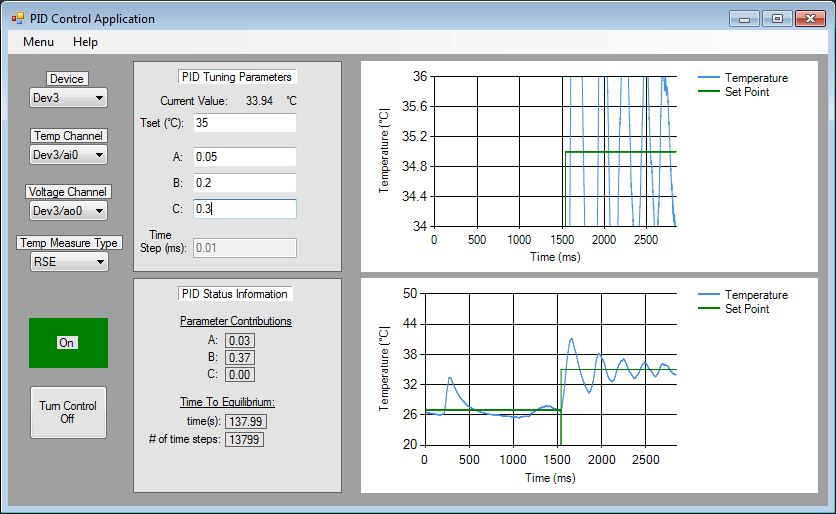
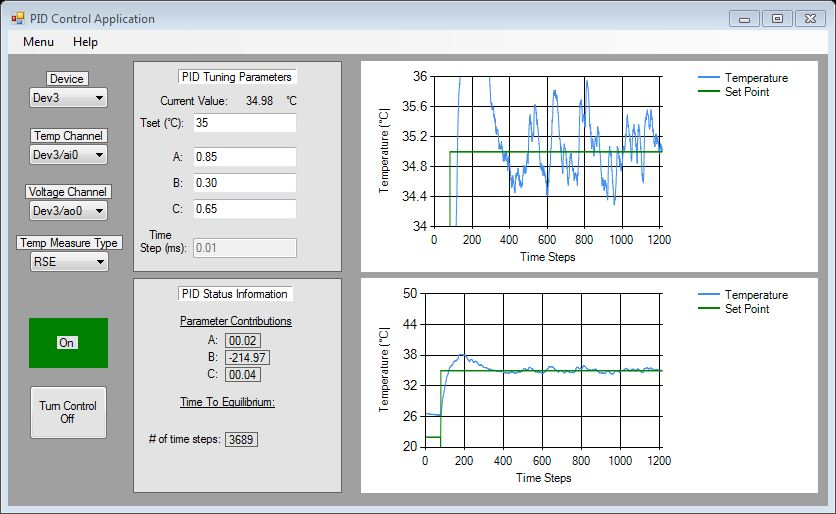
PID abstract class now resets errors when setpoint is changed. New Readme picture of front panel

diff --git a/PID_Application/MainForm.cs b/PID_Application/MainForm.cs
@@ -149,6 +149,8 @@ namespace PID_Application
             TempPlotExpanded.ChartAreas[0].AxisX.Title = "Time Steps";
             TempPlotExpanded.ChartAreas[0].AxisY.Title = "Temperature (°C)";
 
+            TimeStepsLbl.Text = "0";
+
             Cursor.Current = Cursors.Default;
         }
       
@@ -358,6 +360,9 @@ namespace PID_Application
             }
             else
             {
+                timeTicks = 0;
+                TimeStepsLbl.Text = "0";
+
                 formUpdateTimer.Enabled = false;
                 pidTimeStep.Enabled = false;
 

diff --git a/PID_Application/PID_Abstract.cs b/PID_Application/PID_Abstract.cs
@@ -74,7 +74,7 @@ namespace PID_Application
         }
         protected double SetPoint
         {
-            set { setPoint = value; }
+            set { setPoint = value; sumOfErrors = 0.0; previousError = 0.0; }
             get { return setPoint; }
         }
     }
@@ -145,7 +145,7 @@ namespace PID_Application
 
         public double DesiredTemp
         {
-            set { SetPoint = value; }
+            set { SetPoint = value;  }
             get { return SetPoint; }
         }
         public double TempRead
